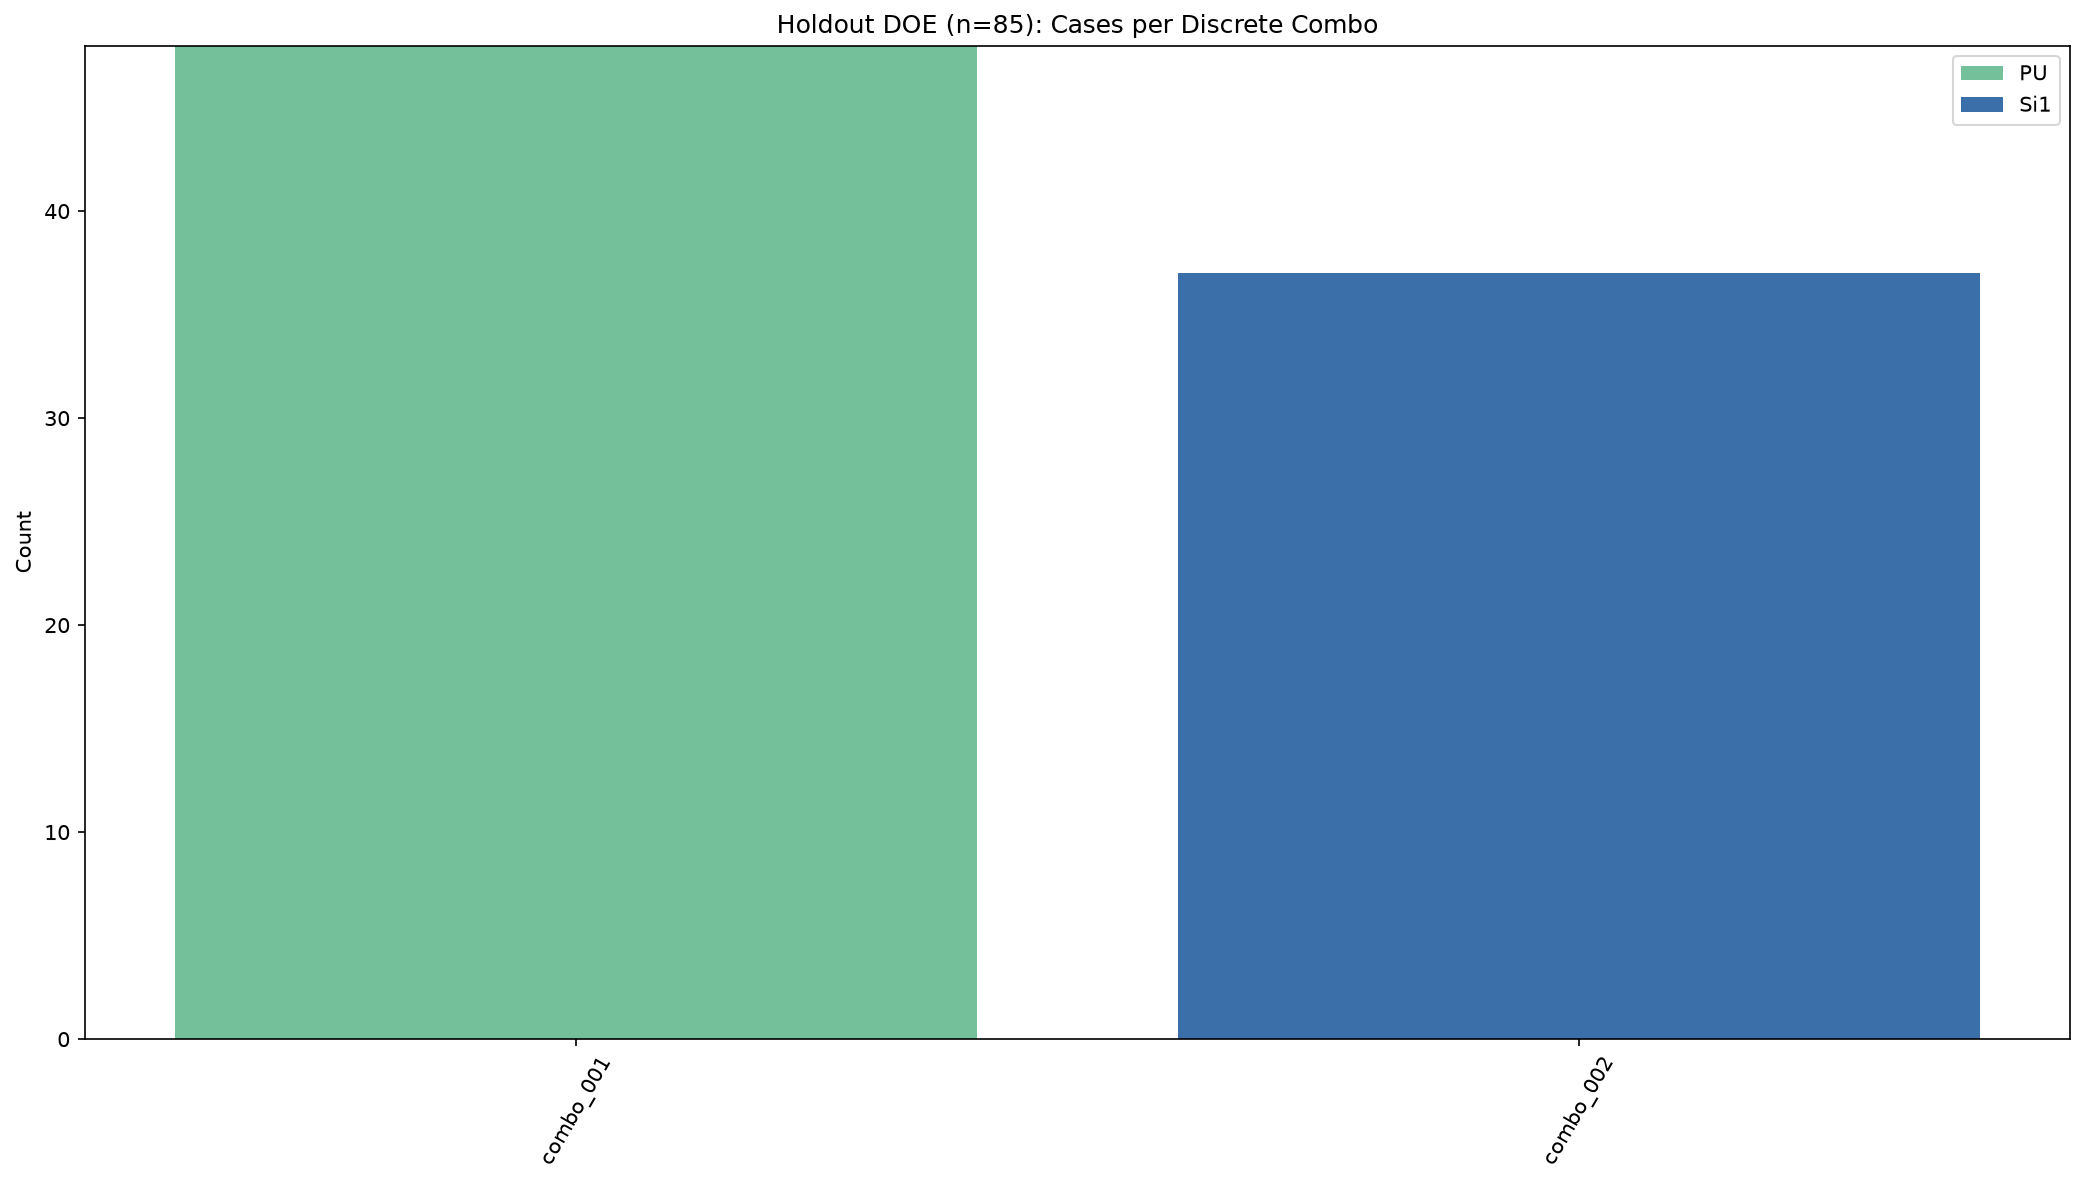
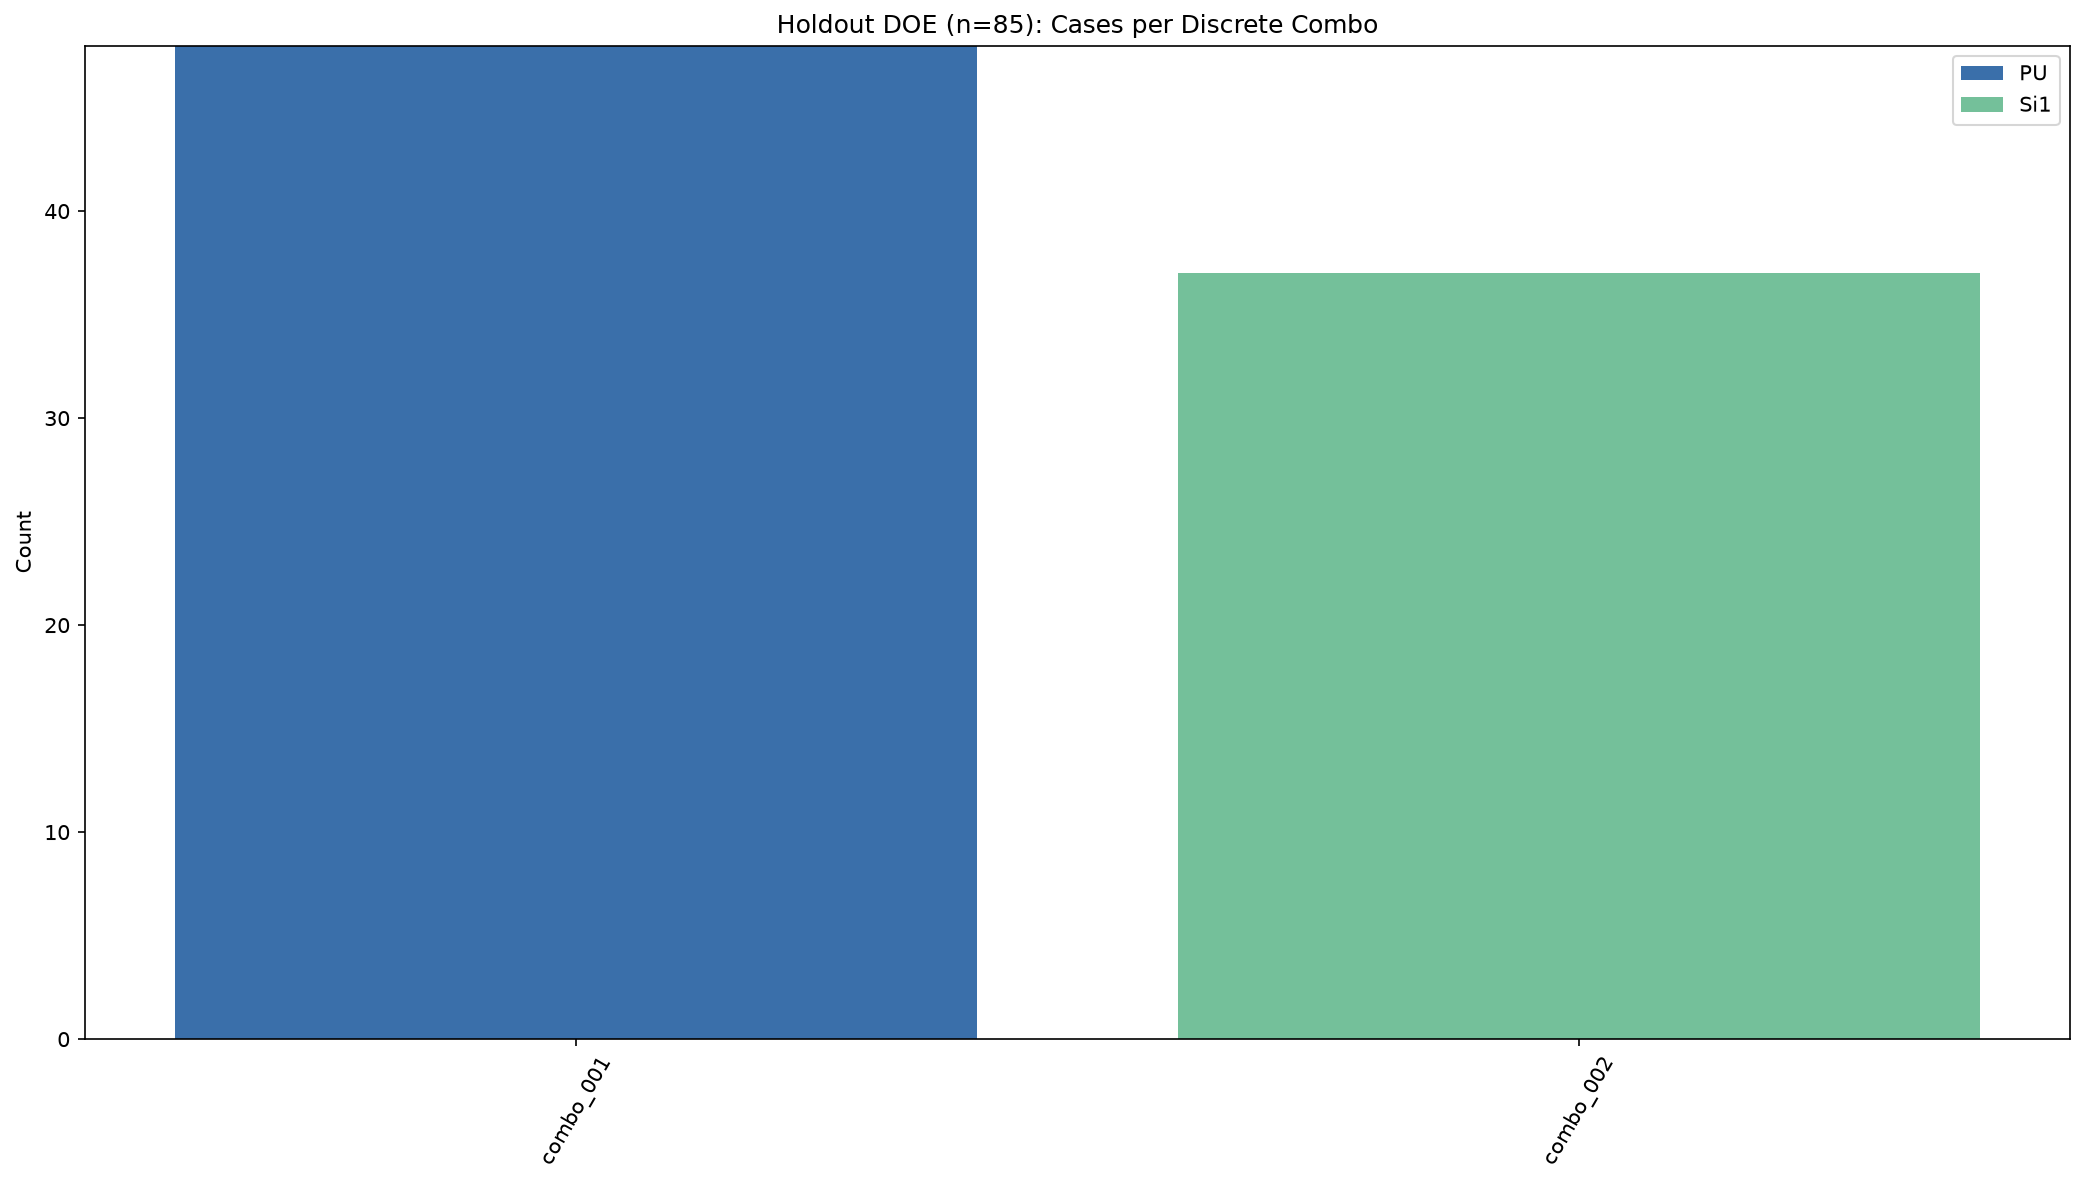
Adjust sampling config and generalize holdout generation

diff --git a/2_Active_Sampling/active_sampling_gp_mlp_optuna_v3_LFP_Gen2B/make_holdout_distribution_plots.py b/2_Active_Sampling/active_sampling_gp_mlp_optuna_v3_LFP_Gen2B/make_holdout_distribution_plots.py
@@ -1,8 +1,13 @@
 import argparse
+import sys
 from pathlib import Path
 
 import matplotlib.pyplot as plt
 import pandas as pd
+
+# Import config for column definitions
+sys.path.insert(0, str(Path(__file__).resolve().parent))
+import config
 
 
 INPUT_CSV = Path("outputs/final_test_doe/holdout_doe_50_from_initial_distribution.csv")
@@ -10,32 +15,37 @@ OUTPUT_DIR = Path("outputs/final_test_doe")
 OUTPUT_PREFIX = "holdout_50"
 
 
-def build_discrete_combo_id(df: pd.DataFrame) -> pd.Series:
-    combo_cols = ["B_Barrier_Type", "D_Barrier_Outer_Type"]
-    combos = df[combo_cols].astype(str).drop_duplicates().sort_values(combo_cols).reset_index(drop=True)
+def build_discrete_combo_id(df: pd.DataFrame, discrete_cols: list) -> pd.Series:
+    """Build combo IDs from discrete columns dynamically."""
+    combos = df[discrete_cols].astype(str).drop_duplicates().sort_values(discrete_cols).reset_index(drop=True)
     mapping = {
-        (row["B_Barrier_Type"], row["D_Barrier_Outer_Type"]): f"combo_{i + 1:03d}"
+        tuple(row[discrete_cols].astype(str).tolist()): f"combo_{i + 1:03d}"
         for i, (_, row) in enumerate(combos.iterrows())
     }
-    return df[combo_cols].astype(str).apply(lambda r: mapping[(r["B_Barrier_Type"], r["D_Barrier_Outer_Type"])], axis=1)
+    return df[discrete_cols].astype(str).apply(lambda r: mapping[tuple(r.tolist())], axis=1)
 
 
-def save_combo_distribution(df: pd.DataFrame, out_path: Path, n_samples: int) -> None:
-    combo_counts = (
-        df.groupby(["discrete_combo_id", "D_Barrier_Outer_Type"]).size().unstack(fill_value=0).sort_index()
-    )
+def save_combo_distribution(df: pd.DataFrame, out_path: Path, n_samples: int, discrete_cols: list) -> None:
+    # Use the last discrete column for color grouping (or first if only one)
+    group_col = discrete_cols[-1] if discrete_cols else None
+    if group_col and group_col in df.columns:
+        combo_counts = (
+            df.groupby(["discrete_combo_id", group_col]).size().unstack(fill_value=0).sort_index()
+        )
+    else:
+        combo_counts = df.groupby("discrete_combo_id").size().to_frame(name="count").sort_index()
 
     plt.figure(figsize=(14, 8), dpi=150)
     bottom = None
-    colors = {"Si1": "#3A6FAA", "PU": "#74C09A"}
-    for col in combo_counts.columns:
+    default_colors = ["#3A6FAA", "#74C09A", "#E76F51", "#9B59B6", "#F39C12"]
+    for i, col in enumerate(combo_counts.columns):
         vals = combo_counts[col]
         plt.bar(
             combo_counts.index,
             vals,
             bottom=bottom,
             label=str(col),
-            color=colors.get(str(col), None),
+            color=default_colors[i % len(default_colors)],
         )
         bottom = vals if bottom is None else (bottom + vals)
 
@@ -48,35 +58,64 @@ def save_combo_distribution(df: pd.DataFrame, out_path: Path, n_samples: int) ->
     plt.close()
 
 
-def save_continuous_distribution(df: pd.DataFrame, out_path: Path, n_samples: int) -> None:
-    cols = ["A_Cell_D", "C_Barrier_Thx", "E_Barrier_Outer_Thx", "F_ThermalResin_Thx"]
-    labels = sorted(df["D_Barrier_Outer_Type"].astype(str).unique().tolist())
-    colors = ["#E76F51", "#2A9D8F"]
+def save_continuous_distribution(df: pd.DataFrame, out_path: Path, n_samples: int, continuous_cols: list, discrete_cols: list) -> None:
+    cols = continuous_cols
+    # Use the last discrete column for color grouping
+    group_col = discrete_cols[-1] if discrete_cols else None
+    if group_col and group_col in df.columns:
+        labels = sorted(df[group_col].astype(str).unique().tolist())
+    else:
+        labels = ["all"]
+    colors = ["#E76F51", "#2A9D8F", "#3A6FAA", "#9B59B6", "#F39C12"]
 
-    fig, axes = plt.subplots(2, 2, figsize=(16, 12), dpi=150)
-    for ax, col in zip(axes.flatten(), cols):
-        arrays = [df.loc[df["D_Barrier_Outer_Type"].astype(str) == lab, col].astype(float).to_numpy() for lab in labels]
+    n_cols = len(cols)
+    n_rows = (n_cols + 1) // 2
+    fig, axes = plt.subplots(n_rows, 2, figsize=(16, 6 * n_rows), dpi=150)
+    axes_flat = axes.flatten() if n_cols > 1 else [axes]
+    for i, col in enumerate(cols):
+        ax = axes_flat[i]
+        if group_col and group_col in df.columns:
+            arrays = [df.loc[df[group_col].astype(str) == lab, col].astype(float).to_numpy() for lab in labels]
+        else:
+            arrays = [df[col].astype(float).to_numpy()]
         ax.hist(arrays, bins=20, stacked=True, label=labels, color=colors[: len(labels)], alpha=0.95)
         ax.set_title(col)
         ax.grid(True, alpha=0.3)
+    # Hide unused axes
+    for j in range(n_cols, len(axes_flat)):
+        axes_flat[j].set_visible(False)
 
-    axes[0, 0].legend(loc="upper right")
+    axes_flat[0].legend(loc="upper right")
     fig.suptitle(f"Holdout DOE (n={n_samples}): Continuous Distribution", fontsize=18)
     plt.tight_layout()
     plt.savefig(out_path, bbox_inches="tight")
     plt.close(fig)
 
 
-def save_scatter_cellD_vs_barrier(df: pd.DataFrame, out_path: Path, n_samples: int) -> None:
-    labels = sorted(df["D_Barrier_Outer_Type"].astype(str).unique().tolist())
-    colors = ["#E76F51", "#2A9D8F"]
+def save_scatter_cellD_vs_barrier(df: pd.DataFrame, out_path: Path, n_samples: int, continuous_cols: list, discrete_cols: list) -> None:
+    # Use first two continuous columns for x/y
+    x_col = continuous_cols[0] if len(continuous_cols) > 0 else None
+    y_col = continuous_cols[1] if len(continuous_cols) > 1 else None
+    if not x_col or not y_col:
+        print("[WARN] Not enough continuous columns for scatter plot.")
+        return
+
+    group_col = discrete_cols[-1] if discrete_cols else None
+    if group_col and group_col in df.columns:
+        labels = sorted(df[group_col].astype(str).unique().tolist())
+    else:
+        labels = ["all"]
+    colors = ["#E76F51", "#2A9D8F", "#3A6FAA", "#9B59B6", "#F39C12"]
 
     plt.figure(figsize=(14, 10), dpi=150)
     for i, lab in enumerate(labels):
-        part = df.loc[df["D_Barrier_Outer_Type"].astype(str) == lab]
+        if group_col and group_col in df.columns:
+            part = df.loc[df[group_col].astype(str) == lab]
+        else:
+            part = df
         plt.scatter(
-            part["A_Cell_D"],
-            part["C_Barrier_Thx"],
+            part[x_col],
+            part[y_col],
             s=110,
             c=colors[i % len(colors)],
             edgecolors="black",
@@ -85,9 +124,9 @@ def save_scatter_cellD_vs_barrier(df: pd.DataFrame, out_path: Path, n_samples: i
             label=lab,
         )
 
-    plt.title(f"Holdout DOE (n={n_samples}): Cell_D vs Barrier_Thx")
-    plt.xlabel("A_Cell_D")
-    plt.ylabel("C_Barrier_Thx")
+    plt.title(f"Holdout DOE (n={n_samples}): {x_col} vs {y_col}")
+    plt.xlabel(x_col)
+    plt.ylabel(y_col)
     plt.grid(True, alpha=0.25)
     plt.legend(loc="upper right")
     plt.tight_layout()
@@ -107,16 +146,21 @@ def main() -> None:
     OUTPUT_DIR.mkdir(parents=True, exist_ok=True)
     df = pd.read_csv(input_csv)
     df = df.loc[:, ~df.columns.astype(str).str.startswith("Unnamed")].copy()
-    df["discrete_combo_id"] = build_discrete_combo_id(df)
+
+    # Get column definitions from config
+    discrete_cols = list(config.DISCRETE_COLS)
+    continuous_cols = list(config.BASE_CONTINUOUS_COLS)
+
+    df["discrete_combo_id"] = build_discrete_combo_id(df, discrete_cols)
     n_samples = len(df)
 
     combo_path = OUTPUT_DIR / f"{output_prefix}_combo_distribution.png"
     cont_path = OUTPUT_DIR / f"{output_prefix}_continuous_distribution.png"
-    scatter_path = OUTPUT_DIR / f"{output_prefix}_cellD_vs_barrierThx.png"
+    scatter_path = OUTPUT_DIR / f"{output_prefix}_scatter.png"
 
-    save_combo_distribution(df, combo_path, n_samples)
-    save_continuous_distribution(df, cont_path, n_samples)
-    save_scatter_cellD_vs_barrier(df, scatter_path, n_samples)
+    save_combo_distribution(df, combo_path, n_samples, discrete_cols)
+    save_continuous_distribution(df, cont_path, n_samples, continuous_cols, discrete_cols)
+    save_scatter_cellD_vs_barrier(df, scatter_path, n_samples, continuous_cols, discrete_cols)
 
     print(f"Saved: {combo_path.as_posix()}")
     print(f"Saved: {cont_path.as_posix()}")

diff --git a/2_Active_Sampling/active_sampling_gp_mlp_optuna_v3_LFP_Gen2B/make_holdout_doe_from_reference_dist.py b/2_Active_Sampling/active_sampling_gp_mlp_optuna_v3_LFP_Gen2B/make_holdout_doe_from_reference_dist.py
@@ -119,10 +119,13 @@ def main() -> None:
     picked_idx = greedy_maximin_subset(pool[base_cols], n_output, seed)
     out = pool.iloc[picked_idx].reset_index(drop=True)
 
-    # Discrete policy A: sample from current config levels.
-    out["B_Barrier_Type"] = "Si1"
-    d_levels = list(config.DISCRETE_LEVELS["D_Barrier_Outer_Type"])
-    out["D_Barrier_Outer_Type"] = rng.choice(d_levels, size=len(out), replace=True)
+    # Discrete policy: sample from config levels for each discrete column.
+    for d_col in config.DISCRETE_COLS:
+        d_levels = list(config.DISCRETE_LEVELS[d_col])
+        if len(d_levels) == 1:
+            out[d_col] = d_levels[0]
+        else:
+            out[d_col] = rng.choice(d_levels, size=len(out), replace=True)
 
     for c1, c2, new_col in config.INTERACTION_TERMS:
         out[new_col] = pd.to_numeric(out[c1], errors="coerce") * pd.to_numeric(out[c2], errors="coerce")

diff --git a/2_Active_Sampling/active_sampling_gp_mlp_optuna_v3_LFP_Gen2B/config.py b/2_Active_Sampling/active_sampling_gp_mlp_optuna_v3_LFP_Gen2B/config.py
@@ -69,11 +69,11 @@ DISCRETE_LEVELS = {
 }
 S_PREFIX = "S"
 
-CURRENT_LEVEL_TARGET_TOTAL = 636
-INITIAL_TOTAL = 140
+CURRENT_LEVEL_TARGET_TOTAL = 300
+INITIAL_TOTAL = 60
 ADDITIONAL_TOTAL = CURRENT_LEVEL_TARGET_TOTAL - INITIAL_TOTAL
 
-BATCH_SIZE = 23
+BATCH_SIZE = 20
 CANDIDATES_PER_COMBO = 42000
 
 MIN_SAMPLES_PER_COMBO = 1
@@ -88,7 +88,7 @@ BUCKET_RATIO = {
 
 # === Combo Reinforcement Sampling ===
 # Automatically add extra samples for underrepresented or misclassified combos
-ENABLE_COMBO_REINFORCE = True
+ENABLE_COMBO_REINFORCE = False
 # Number of extra samples per lacking combo (combo with 0 samples in current batch)
 REINFORCE_LACKING_COMBO_COUNT = 3
 # Number of extra samples per misclassified combo (from holdout evaluation)
